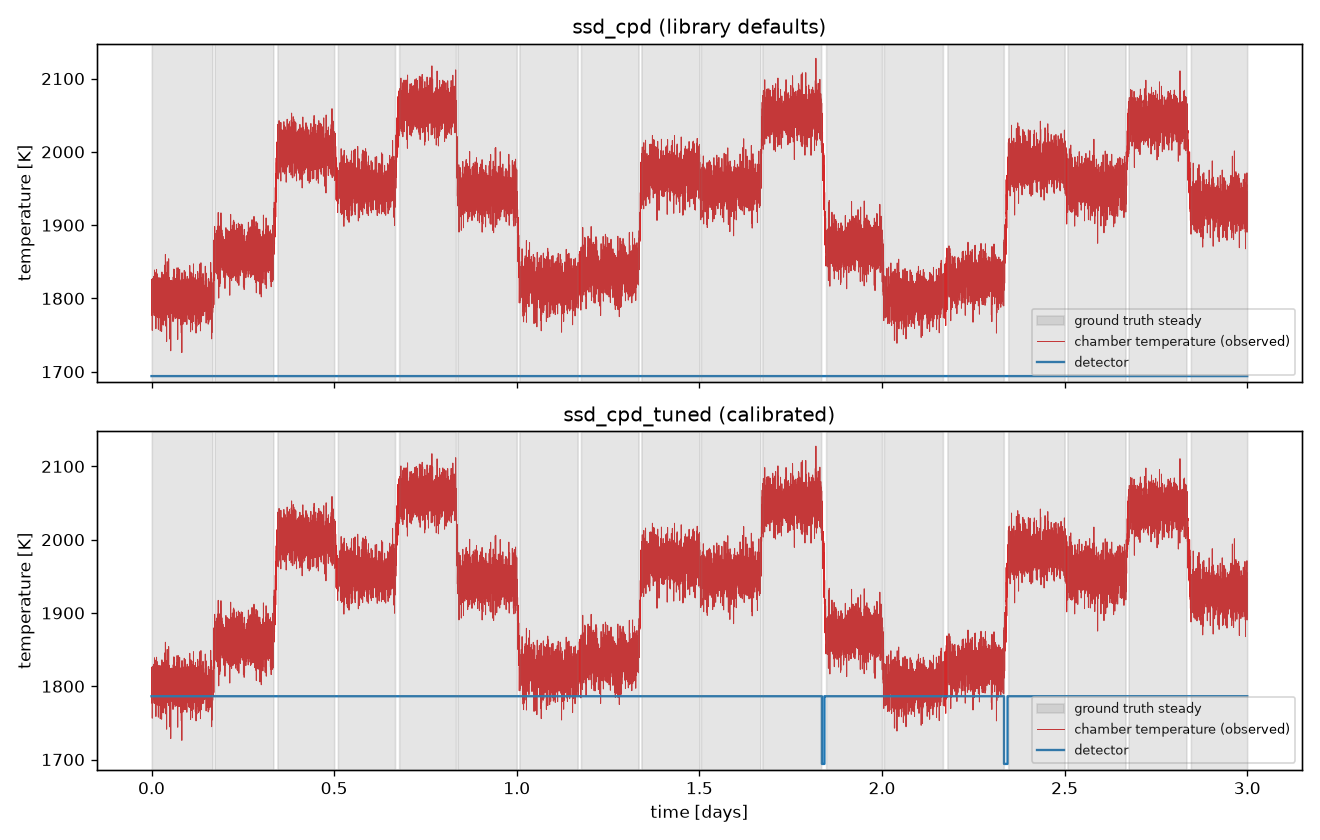
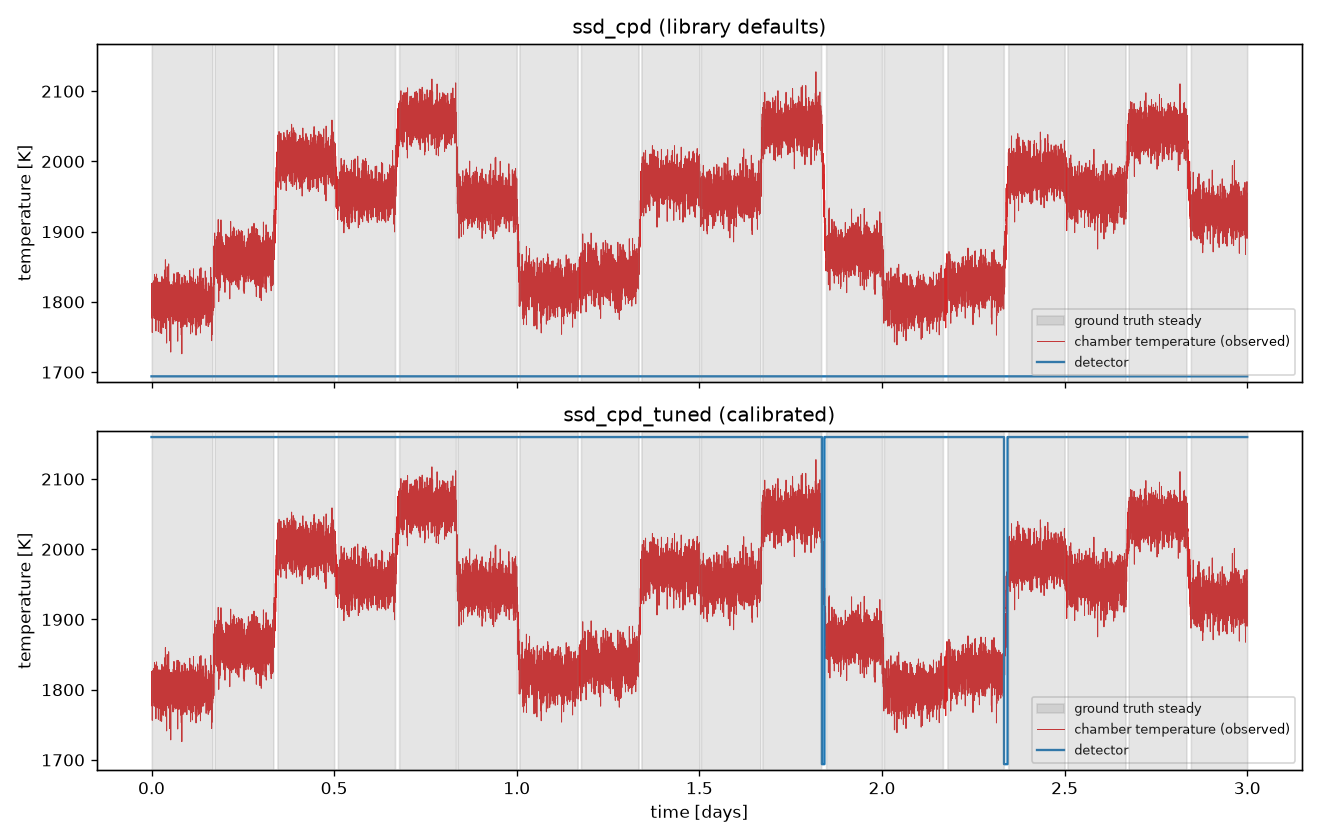
fix: make detector signal swing clearly from bottom to top of the chart

diff --git a/scripts/make_sample_figures.py b/scripts/make_sample_figures.py
@@ -60,14 +60,13 @@ def make_detection_before_after(run_id: str = "run_00000", days: float = 3.0) ->
 
     tmin, tmax = temp.min(), temp.max()
     trange = tmax - tmin
-    # baseline sits below the data (0 = not steady); the "1" level rises up
-    # into the lower portion of the actual temperature trace, so the signal
-    # visibly points up toward the series instead of staying in a separate
-    # strip entirely beneath it. Both levels are fixed from the same tmin/
-    # tmax for this window, so they land at the identical position in both
-    # panels below.
+    # baseline sits at the very bottom (0 = not steady); "1" swings all the
+    # way up to the top of the chart, a clear, large upward jump rather than
+    # a small bump near the floor. Both levels are fixed from the same
+    # tmin/tmax for this window, so they land at the identical position in
+    # both panels below.
     y_low = tmin - 0.08 * trange
-    y_high = tmin + 0.15 * trange
+    y_high = tmax + 0.08 * trange
 
     fig, axes = plt.subplots(2, 1, figsize=(11, 7), sharex=True)
     panels = [
@@ -83,7 +82,7 @@ def make_detection_before_after(run_id: str = "run_00000", days: float = 3.0) ->
         ax.plot(time_days, temp, color="tab:red", lw=0.6, label="chamber temperature (observed)", zorder=2)
         detector_y = np.where(pred == 1, y_high, y_low)
         ax.plot(time_days, detector_y, color="tab:blue", lw=1.4, drawstyle="steps-post", label="detector", zorder=3)
-        ax.set_ylim(y_low - 0.02 * trange, tmax + 0.05 * trange)
+        ax.set_ylim(y_low - 0.02 * trange, y_high + 0.02 * trange)
         ax.set_ylabel("temperature [K]")
         ax.set_title(title)
 
